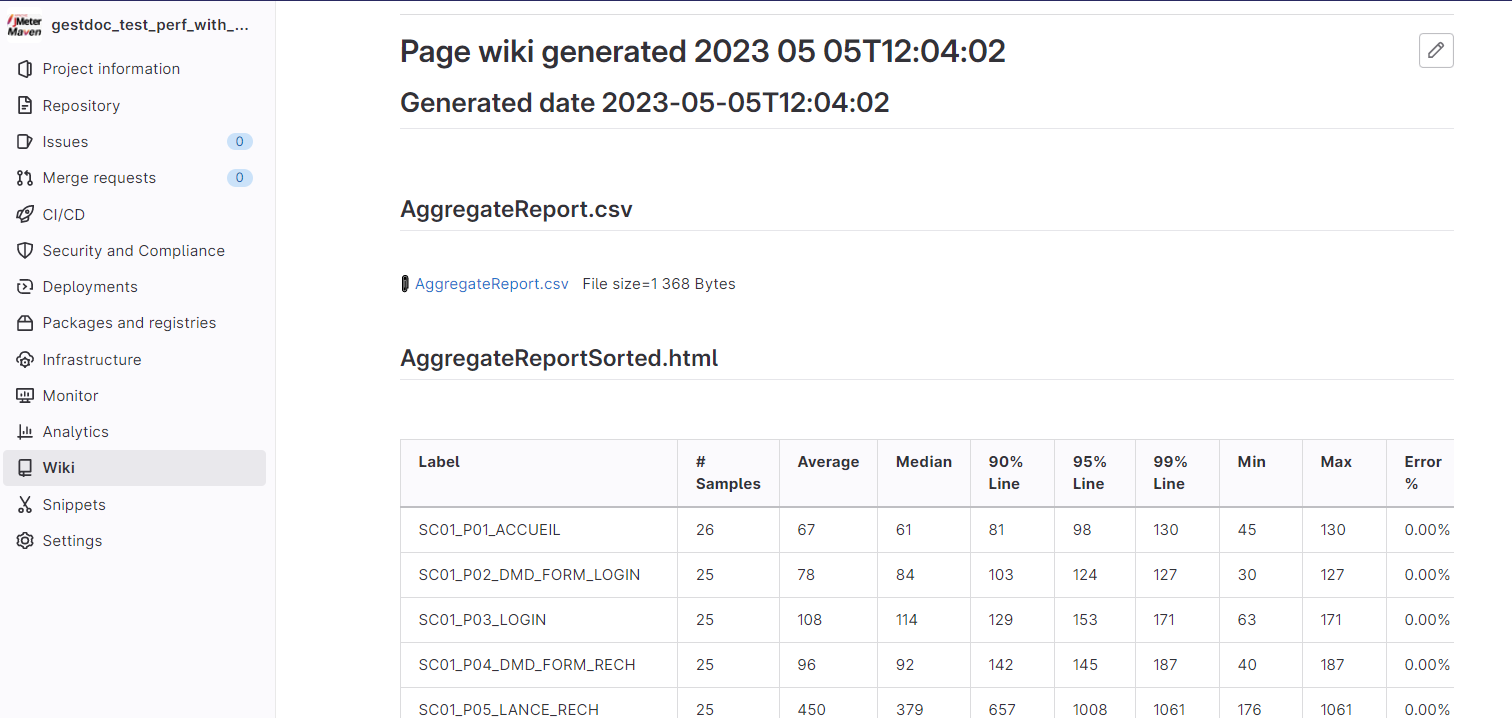
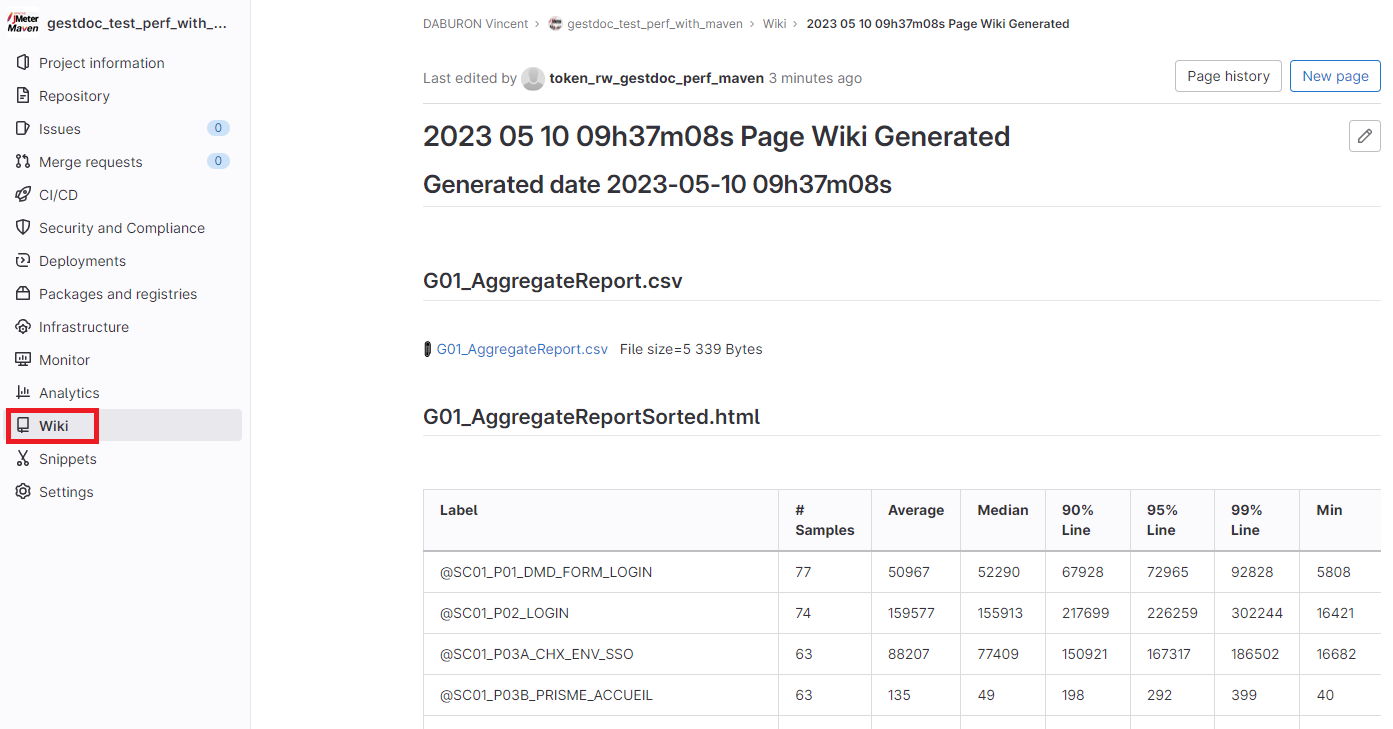
Version 1.1 change default Wiki Page Title Date format to be compatible with slug url

diff --git a/src/main/java/io/github/vdaburon/jmeter/utils/WikiPageGenerator.java b/src/main/java/io/github/vdaburon/jmeter/utils/WikiPageGenerator.java
@@ -157,13 +157,13 @@ public class WikiPageGenerator {
 		try {
 			LOGGER.info("Generating gitlab wiki page ...");
 
-			SimpleDateFormat dateFormat = new SimpleDateFormat("yyyy-MM-dd'T'HH:mm:ss", Locale.getDefault());
+			SimpleDateFormat dateFormat = new SimpleDateFormat("yyyy-MM-dd HH'h'mm'm'ss's'", Locale.getDefault());
 			String sDate = dateFormat.format(new Date());
 
 			sb.append("<h1> Generated date " + sDate + "</h1><br/>");
 			sb.append(LINE_SEP);
 
-			String pageTitleWikiPage = "Page wiki generated " + sDate;
+			String pageTitleWikiPage = sDate + " Page Wiki Generated";
 			if (pageTitle !=  null && pageTitle.length() > 1) {
 				pageTitleWikiPage = pageTitle;
 			}

diff --git a/README.md b/README.md
@@ -33,20 +33,19 @@ See the LICENSE file Apache 2 [https://www.apache.org/licenses/LICENSE-2.0](http
 ## The wiki page generated
 Gitlab wiki page extract example 1 :
 
-![wiki_page extract](doc/images/wiki_page_extract.png)
+![wiki_page extract 1](doc/images/wiki_page_extract.png)
 
 Gitlab wiki page extract example 2 :
-![wiki_page extract](doc/images/wiki_page_extract2.png)
+![wiki_page extract 2](doc/images/wiki_page_extract2.png)
 
 
 ## Usage Maven
-
 The maven groupId, artifactId and version, this plugin is in the **Maven Central Repository**
 
 ```xml
 <groupId>io.github.vdaburon</groupId>
 <artifactId>create-gitlab-wiki-page-for-files-in-directory</artifactId>
-<version>1.0</version>
+<version>1.1</version>
 ```
 Just include the plugin in your `pom.xml` and execute `mvn verify` <br>
 or with parameters overwriting properties `mvn -DgitlabUrl=https://mygitlab.com -DprojectId=12344 -DaccessToken=SLKJtokenLMJI -DpageTitle="Load test 05_03_2023" verify`<br>
@@ -68,7 +67,7 @@ or individual launch `mvn -DaccessToken=mytokenLMJI exec:java@create_gitlab_wiki
         <dependency>
             <groupId>io.github.vdaburon</groupId>
             <artifactId>create-gitlab-wiki-page-for-files-in-directory</artifactId>
-            <version>1.0</version>
+            <version>1.1</version>
         </dependency>
     </dependencies>
 
@@ -116,13 +115,12 @@ java -jar create-gitlab-wiki-page-for-files-in-directory-&lt;version&gt;.jar -gi
 </pre>
 
 ## Link to others projects
-Usally this plugin is use with [jmeter-graph-tool-maven-plugin](https://github.com/vdaburon/jmeter-graph-tool-maven-plugin)
-
+Usally this plugin is use with [jmeter-graph-tool-maven-plugin](https://github.com/vdaburon/jmeter-graph-tool-maven-plugin)<br>
 and this plugin [csv-report-to-html](https://github.com/vdaburon/JMReportCsvToHtml)
-
 1) The **jmeter-graph-tool-maven-plugin** create the report csv files and graphs
 2) The **csv-report-to-html** create the **html table report** from the csv file
 
 ## Versions
+Version 1.1 change default Wiki Page Title and the Date Format to be more compatible with slug link (remove ':')<br>
 Version 1.0 initial version test with Gitlab version 15.10
 
